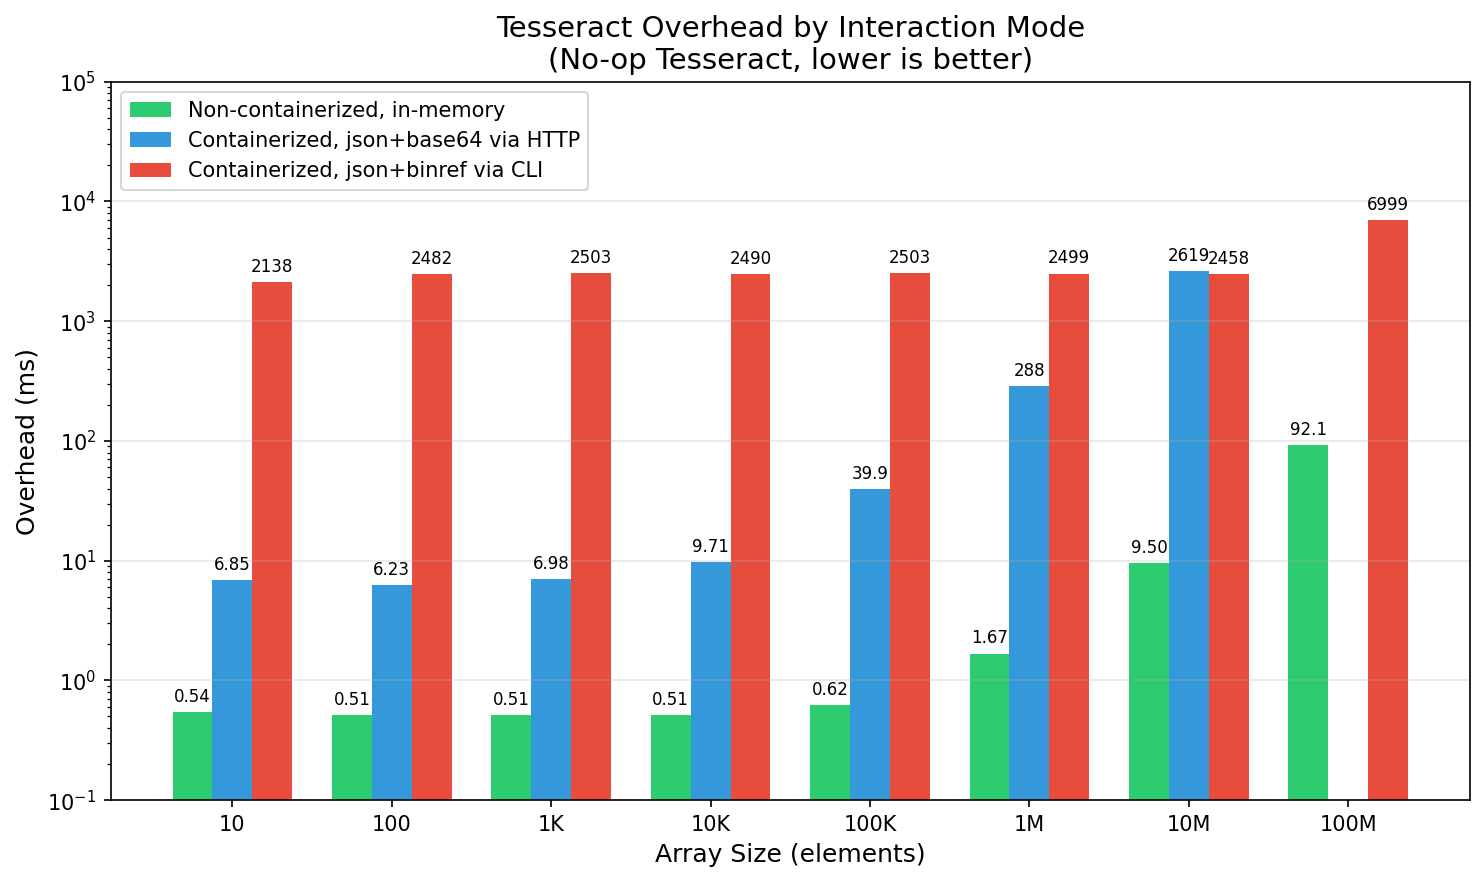
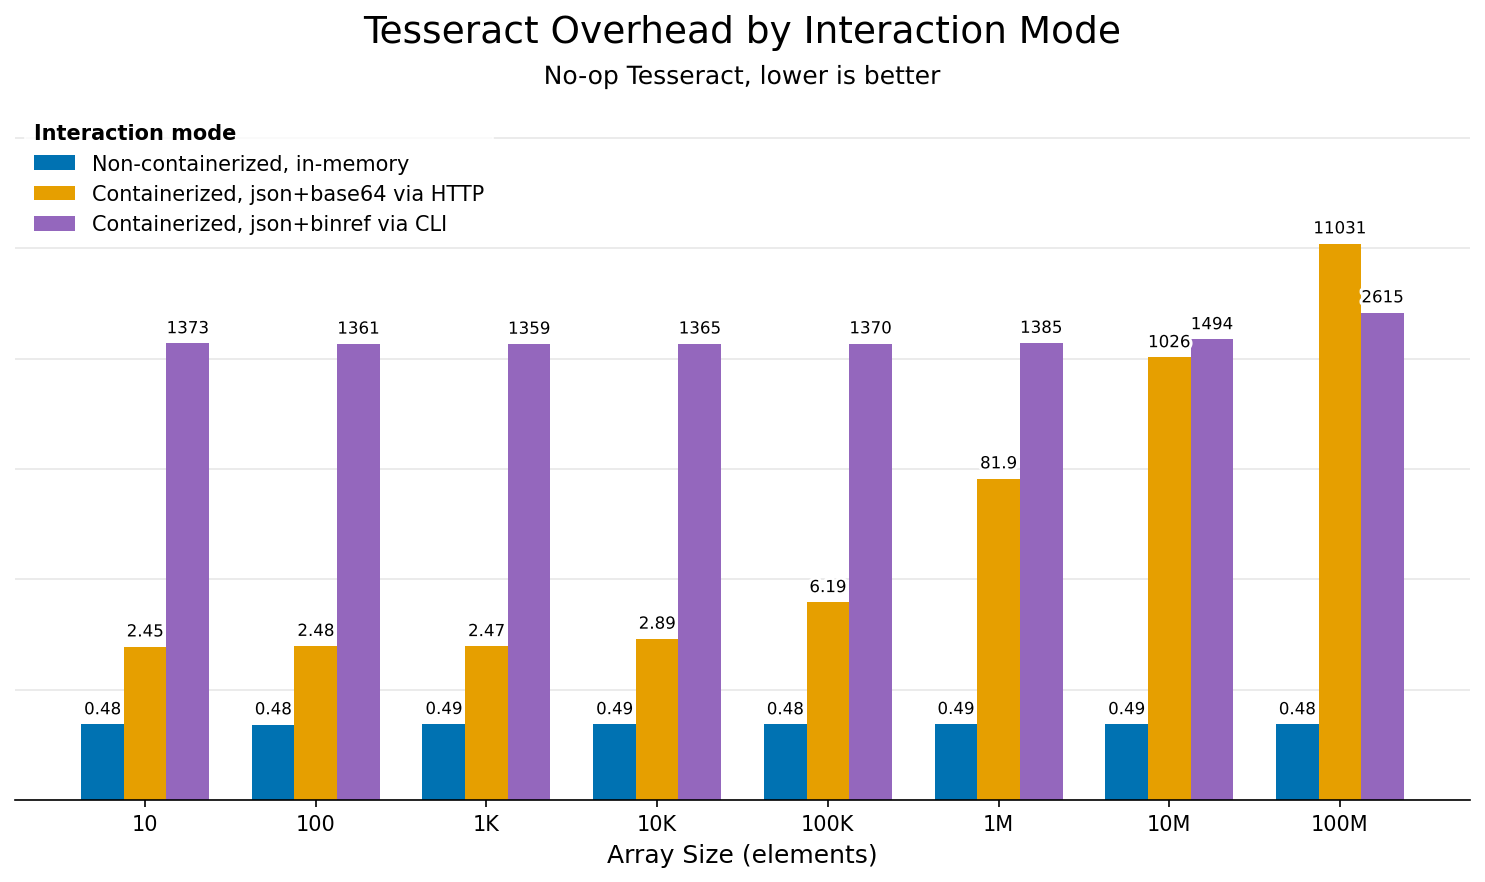
more tightening

diff --git a/docs/static/custom.css b/docs/static/custom.css
@@ -13,3 +13,8 @@
 .content h4 {
     font-size: 1.1em;
 }
+
+figure.align-default {
+    margin-top: 2em;
+    margin-bottom: 2em;
+}

diff --git a/docs/content/misc/performance.md b/docs/content/misc/performance.md
@@ -41,26 +41,7 @@ Benchmark with representative inputs to understand the trade-offs for your use c
 Advice in this section is specific to the benchmarking scenario described above. Your mileage will vary based on your setup and workload.
 ```
 
-<br>
-
-```{figure} /img/benchmark_guidance.png
-:alt: Tesseract overhead guidance chart
-:width: 100%
-
-Overhead as percentage of computation time, depending on interaction mode and I/O data size, for the benchmark scenario (local Tesseract with fast network and disk).
-```
-
-<br>
-
-The guidance plot shows overhead curves for three interaction modes at three representative I/O sizes (1kB, 1MB, 1GB). Each combination represents a typical usage pattern:
-
-| Mode (color)                                   | What it measures                                                                                                            | Typical use case                                       |
-| ---------------------------------------------- | --------------------------------------------------------------------------------------------------------------------------- | ------------------------------------------------------ |
-| **Non-containerized, in-memory** (green)       | Direct Python calls via `Tesseract.from_tesseract_api`. Passes data as in-memory Python objects without Docker or HTTP.     | Development, tight loops, performance-critical paths   |
-| **Containerized, json+base64 via HTTP** (blue) | Full Docker + HTTP stack, served via HTTP (e.g. `tesseract serve`). Includes serialization and network transfer.            | Production, CI/CD, multi-language environments         |
-| **Containerized, json+binref via CLI** (red)   | CLI invocation via `tesseract run`. Includes container startup and disk I/O, but avoids transferring data over the network. | Shell scripts, one-off runs, pipelines with large data |
-
-The three I/O sizes (dotted = 1kB, dashed = 1MB, solid = 1GB) show how data volume shifts the overhead curve. For small data, the fixed costs (HTTP roundtrip, container startup) dominate. For large data, transfer and serialization take over.
+The following chart shows absolute overhead (in milliseconds) for each interaction mode across a range of array sizes, using a no-op Tesseract that does nothing but decode and encode data:
 
 ```{figure} /img/benchmark_overhead.png
 :alt: Tesseract overhead by interaction mode
@@ -68,6 +49,23 @@ The three I/O sizes (dotted = 1kB, dashed = 1MB, solid = 1GB) show how data volu
 
 Overhead comparison across interaction modes for different array sizes. Uses a no-op Tesseract that does nothing but decode and encode data, isolating framework overhead.
 ```
+
+| Mode (color)                                     | What it measures                                                                                                            | Typical use case                                       |
+| ------------------------------------------------ | --------------------------------------------------------------------------------------------------------------------------- | ------------------------------------------------------ |
+| **Non-containerized, in-memory** (blue)          | Direct Python calls via `Tesseract.from_tesseract_api`. Passes data as in-memory Python objects without Docker or HTTP.     | Development, tight loops, performance-critical paths   |
+| **Containerized, json+base64 via HTTP** (orange) | Full Docker + HTTP stack, served via HTTP (e.g. `tesseract serve`). Includes serialization and network transfer.            | Production, CI/CD, multi-language environments         |
+| **Containerized, json+binref via CLI** (purple)  | CLI invocation via `tesseract run`. Includes container startup and disk I/O, but avoids transferring data over the network. | Shell scripts, one-off runs, pipelines with large data |
+
+The guidance chart below puts these numbers in context by showing overhead as a percentage of computation time, for three representative I/O sizes (dotted = 1kB, dashed = 1MB, solid = 1GB). For small data, fixed costs (HTTP roundtrip, container startup) dominate. For large data, transfer and serialization take over.
+
+```{figure} /img/benchmark_guidance.png
+:alt: Tesseract overhead guidance chart
+:width: 95%
+
+Overhead as percentage of computation time, depending on interaction mode and I/O data size, for the benchmark scenario (local Tesseract with fast network and disk).
+```
+
+(rules-of-thumb-by-use-case)=
 
 ### Rules of thumb by use case
 
@@ -132,4 +130,19 @@ result = tesseract.apply(inputs)
 
 ### 4. Profile to find bottlenecks
 
-Enable profiling to understand where time is spent. See {doc}`/content/debugging` for how to enable and interpret profiling output.
+Enable profiling to see where time is spent:
+
+```bash
+tesseract run myimage apply '{"inputs": {...}}' --profiling
+```
+
+Or via the Python SDK:
+
+```python
+tess = Tesseract.from_tesseract_api(
+    "/path/to/tesseract_api.py",
+    runtime_config={"profiling": True}
+)
+```
+
+See {ref}`profiling` in the debugging guide for more usage examples and how to interpret the output.

diff --git a/docs/content/using-tesseracts/array-encodings.md b/docs/content/using-tesseracts/array-encodings.md
@@ -64,7 +64,7 @@ Array data is stored in separate binary files, with JSON containing only referen
 | **base64** | Binary data encoded as base64 strings in JSON | General-purpose default for HTTP transport                                                       |
 | **binref** | References to binary files on disk            | Large arrays (>10MB), when disk I/O is preferable over HTTP, when data is written to disk anyway |
 
-The encoding format also affects performance — see {doc}`/content/misc/performance` for details.
+The chart below shows how encoding format affects serialization and transfer overhead as array size grows. For more on overall Tesseract performance trade-offs, see {doc}`/content/misc/performance`.
 
 ```{figure} /img/benchmark_encoding.png
 :alt: Encoding performance comparison
@@ -73,9 +73,11 @@ The encoding format also affects performance — see {doc}`/content/misc/perform
 Serialization and transfer overhead by encoding format and array size.
 ```
 
-## Using base64 encoding
+## Usage
 
-By default, Tesseracts return array data as human-readable JSON lists. To use base64 encoding instead, set the format to `json+base64`:
+The default format is `json`. To use a different encoding, set the format flag:
+
+### base64
 
 ::::{tab-set}
 :::{tab-item} CLI
@@ -102,13 +104,9 @@ $ curl \
 :::
 ::::
 
-## Using binref encoding
+### binref
 
-For large payloads you can use the `json+binref` format, which dumps a
-`.json` with references to a `.bin` file that contains the array data as raw binary. This
-avoids dealing with otherwise huge JSON files, and provides a powerful way to lazily load binary data with [LazySequence](#tesseract_core.runtime.experimental.LazySequence). Check out the [`Array`
-docstring](#tesseract_core.runtime.Array) for details on how to use different array
-encodings in Tesseracts.
+The `json+binref` format stores array data in separate `.bin` files and puts only references in the JSON. This enables lazy loading via [LazySequence](#tesseract_core.runtime.experimental.LazySequence). See the [`Array` docstring](#tesseract_core.runtime.Array) for more details.
 
 ::::{tab-set}
 :::{tab-item} CLI
@@ -128,8 +126,7 @@ $ cat /tmp/output/results.json
 :::{tab-item} REST API
 :sync: http
 
-To access the `.bin` files that are written when using the `json+binref` format, make sure
-to specify `--output-path` when serving your Tesseract. Otherwise the `.bin` files will only be accessible _inside_ the Tesseract (under `/tesseract/output_path`).
+Specify `--output-path` when serving so the `.bin` files are accessible on the host. Otherwise they're only available inside the container (under `/tesseract/output_path`).
 
 ```bash
 $ tesseract serve <tesseract-name> --output-path /tmp/output
@@ -140,6 +137,6 @@ $ curl \
   http://<tesseract-address>:<port>/apply
 ```
 
-The references to `.bin` files are relative to the `--output-path` you specified when serving the Tesseract.
+The `.bin` file references are relative to the `--output-path`.
 :::
 ::::

diff --git a/docs/content/debugging.md b/docs/content/debugging.md
@@ -96,6 +96,8 @@ green "play" button at the top left corner of the "Run and Debug" tab.
 
 For more information on the VSCode debugger, see [this guide](https://code.visualstudio.com/docs/debugtest/debugging).
 
+(profiling)=
+
 ## Profiling
 
 Tesseract includes built-in profiling support to help identify performance bottlenecks. When profiling is enabled, the runtime collects CPU profiling statistics using Python's `cProfile` module and reports them after each endpoint execution.
